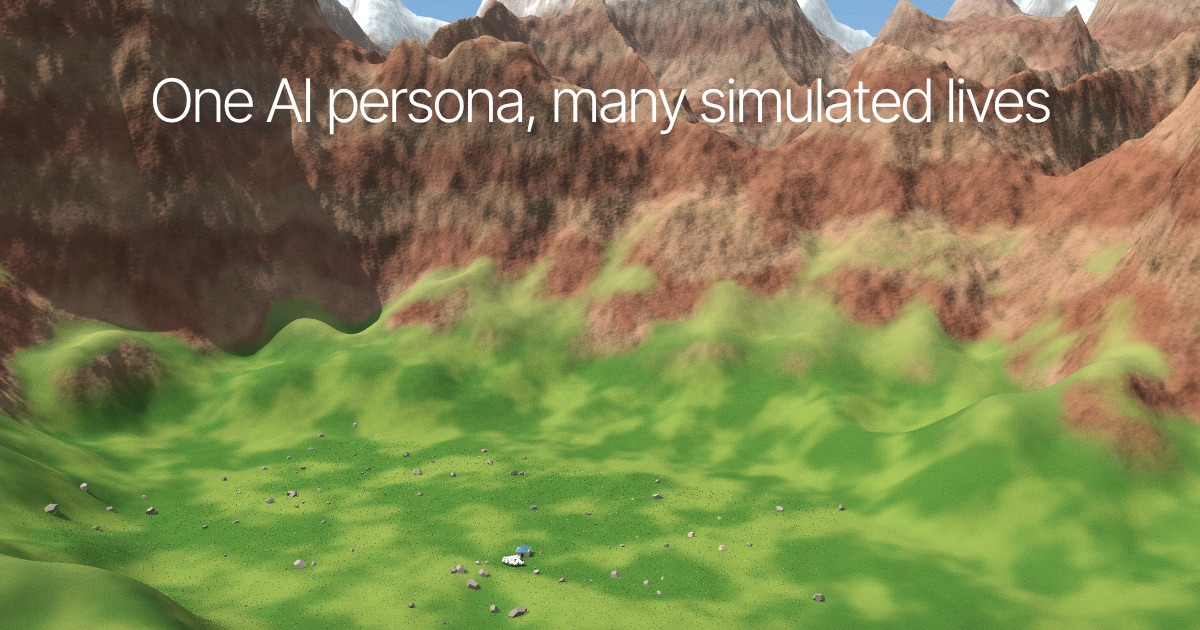
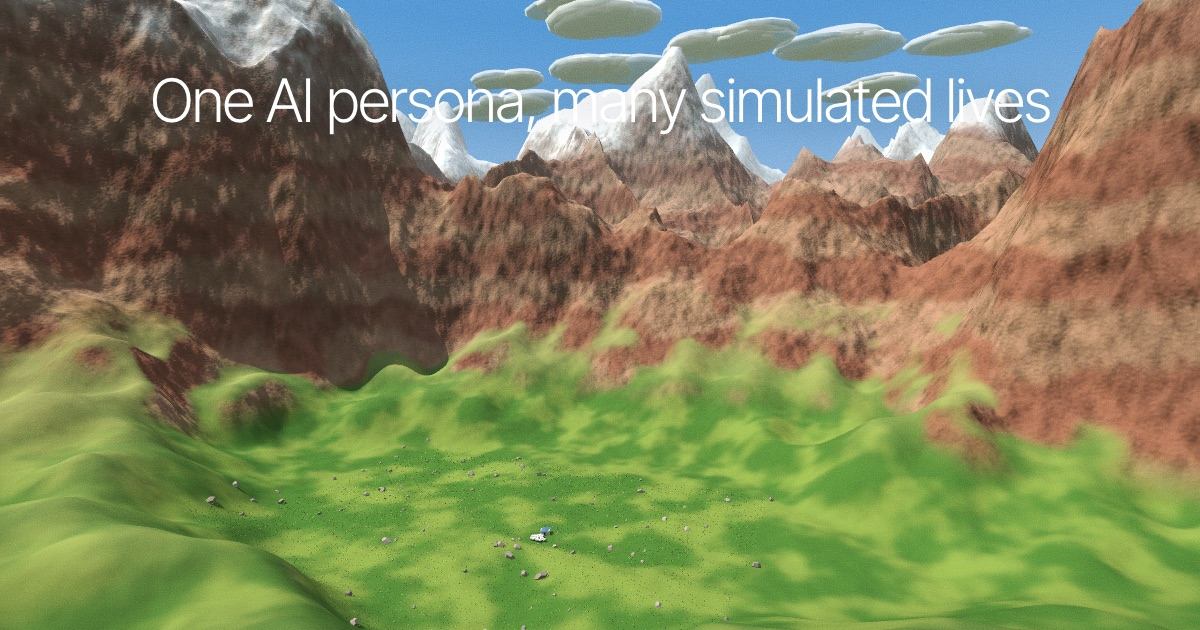
Share image: tilted up so the snow peaks and a band of sky sit behind the title
In ?og mode the home page's opening shot looks higher (look y 250) through the phone's wider lens (58 degrees), so
the 1200x630 image has sky and peaks in the top third and the meadow and the hut along the bottom. world.js takes an
optional fov (default unchanged: 42, or 58 below 700px). docs/og.jpg regenerated with scripts/og_image.sh; same title.

diff --git a/docs/index.html b/docs/index.html
@@ -522,6 +522,7 @@ if (/[?&]og\b/.test(location.search)) document.documentElement.classList.add('og
   var base = chip.getAttribute('href'), heroId = (base.match(/run\/([^?#\/]+)/) || [])[1];
   var still = matchMedia('(prefers-reduced-motion: reduce)').matches;
   var narrow = innerWidth < 700;  // world.js widens the lens below 700px too
+  var og = document.documentElement.classList.contains('og'), OG_LOOK_Y = 250, OG_FOV = 58;  // the share image's tilt and lens (scripts/og_image.sh)
   // With reduced motion, the camera holds still frames: one per story line, at its middle.
   var beats = lines.map(function(l){ return (+l.dataset.a + Math.min(1, +l.dataset.b)) / 2; });
   fetch('data/positions.json').then(function(r){ if (!r.ok) throw new Error('data/positions.json: ' + r.status); return r.json(); }).then(function(P){
@@ -533,12 +534,15 @@ if (/[?&]og\b/.test(location.search)) document.documentElement.classList.add('og
       time: [.1, .95],             // time stands still during the aerial intro
       ghost: [.29, .36, .6, .68],  // the others fade to ghosts while the camera chases the followed life
       still: still,
+      fov: og ? OG_FOV : undefined,  // the share image uses the phone's wider lens: peaks, sky and meadow in one frame
       chaseSmooth: {weeks: 4, maxTurn: 1},  // the ghost cam faces her way over the last 4 weeks and never swings
       // camera rails: [x, y, z], 'hut', or 'chase' (the ghost cam behind the followed life). The wide shots differ on a
       // narrow screen, looking west along the valley so the field runs up the screen, with the job corner and the strays
       // in frame (checked against the real paths).
       shots: [
-        {p: 0,   pos: [260, 250, 460], look: [-40, narrow ? 340 : 170, -300]},  // tilted up on a phone: the title takes two lines there and needs sky behind both
+        // tilted up on a phone (the title takes two lines there and needs sky behind both) and for the share image (?og:
+        // snow peaks and a band of sky behind the title, the meadow and the hut along the bottom)
+        {p: 0,   pos: [260, 250, 460], look: [-40, og ? OG_LOOK_Y : narrow ? 340 : 170, -300]},
         {p: .12, pos: [150, 95, 170],  look: 'hut'},
         {p: .27, pos: [78, 26, -38],   look: 'hut'},   // east of the hut, already facing the way she walks when the chase begins
         {p: .33, pos: 'chase', look: 'chase'},

diff --git a/docs/valley/world.js b/docs/valley/world.js
@@ -19,6 +19,7 @@
                                        // `weeks` weeks, turning at most `maxTurn` degrees per 1/1000 of the life, and holds
                                        // its heading while the life stands still (`minMove` units, default 1.5)
      still: false                      // prefers-reduced-motion: no easing toward the scroll position, no sheep animation
+     fov: 42                           // optional: the lens's vertical angle in degrees; default 42, or 58 below 700px wide
    });
    valley.update(progress)  // per animation frame: scroll progress 0..1 in; eases toward it, renders,
                             // and returns {progress (the eased value), u (life time 0..1), week (the hero's own week)}
@@ -275,7 +276,7 @@ function createValley(cv,opts){
 
  /* ---------- per frame ---------- */
  var cur=0,camPos=new T.Vector3(),camLook=new T.Vector3(),first=true,clock=new T.Clock();
- function resize(){var w=cv.clientWidth,h=cv.clientHeight;if(!w||!h)return;renderer.setSize(w,h,false);cam.aspect=w/h;cam.fov=w<700?58:42;cam.updateProjectionMatrix();}
+ function resize(){var w=cv.clientWidth,h=cv.clientHeight;if(!w||!h)return;renderer.setSize(w,h,false);cam.aspect=w/h;cam.fov=opts.fov||(w<700?58:42);cam.updateProjectionMatrix();}
  function update(target){
   var dt=Math.min(.05,clock.getDelta()),time=STILL?0:clock.elapsedTime;
   cur+=(target-cur)*(1-Math.exp(-dt*5));if(first||STILL)cur=target;
